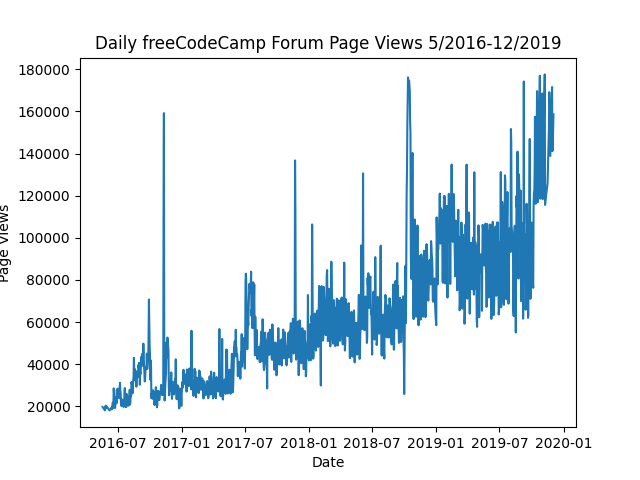
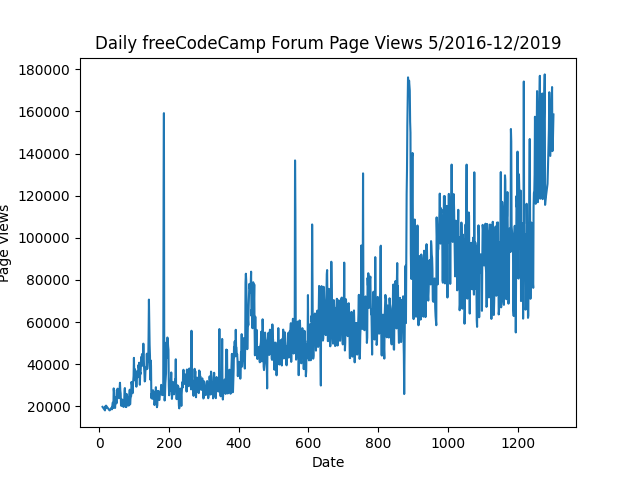
bar plot averages calculated

Changed region(s): [[0.125, 0.9062, 0.9375, 0.9375]]

diff --git a/time_series_visualizer.py b/time_series_visualizer.py
@@ -1,18 +1,19 @@
 import matplotlib.pyplot as plt
 import pandas as pd
+import numpy as np
 import seaborn as sns
 from pandas.plotting import register_matplotlib_converters
 register_matplotlib_converters()
 
 # Import data (Make sure to parse dates. Consider setting index column to 'date'.)
-df = pd.read_csv('fcc-forum-pageviews.csv',index_col='date', parse_dates=True)
-print(df.describe())
-print('csv_data1\n', df)
-
+df = pd.read_csv('fcc-forum-pageviews.csv', parse_dates=True)
+#print(df.describe())
+print('csv_data1', df)
 
 # Clean data
 df = df[(df['value'] <= df['value'].quantile(0.975)) & (df['value'] >= df['value'].quantile(0.025))]
-print('csv_data2\n', df.info())
+print('ggggggggg', df.shape)
+print('dtype1', df.dtypes)
 
 
 def draw_line_plot():
@@ -28,13 +29,23 @@ def draw_line_plot():
     return fig
 
 def draw_bar_plot():
+    
     # Copy and modify data for monthly bar plot
-    df_bar = None
+    df_bar = df.copy()
+       
+    df_bar['year'] = pd.to_datetime(df_bar['date']).dt.year
+    df_bar['month'] = pd.to_datetime(df_bar['date']).dt.month
+    print('csv_data55\n', df_bar)
 
+    groupedData = df_bar.groupby(["year", "month"])
+    monthly_averages = groupedData.aggregate({"value":np.mean})
+    print('monthly_averages\n', monthly_averages)
+    
+   
     # Draw bar plot
+    #plt.bar(, height='200')
 
-
-
+    fig = plt.figure(frameon=False)
 
 
     # Save image and return fig (don't change this part)

diff --git a/main.py b/main.py
@@ -4,8 +4,8 @@ from unittest import main
 
 # Test your function by calling it here
 time_series_visualizer.draw_line_plot()
-# time_series_visualizer.draw_bar_plot()
+time_series_visualizer.draw_bar_plot()
 # time_series_visualizer.draw_box_plot()
 
 # Run unit tests automatically
-main(module='test_module', exit=False)
+#main(module='test_module', exit=False)
